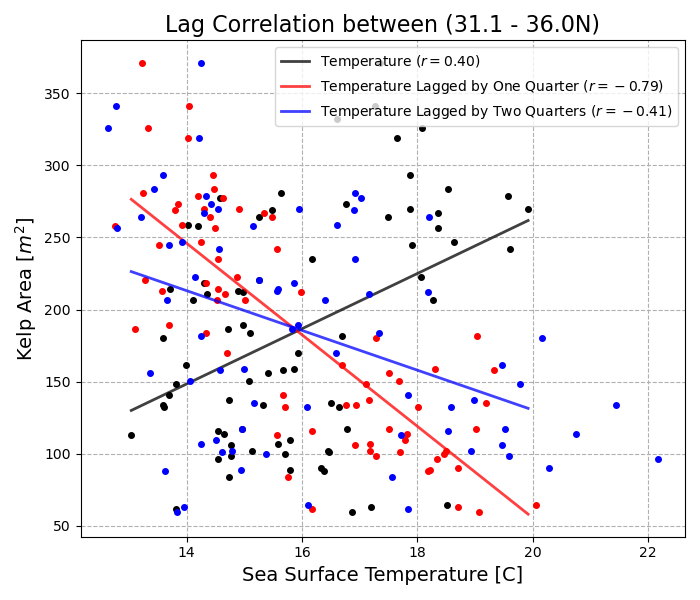
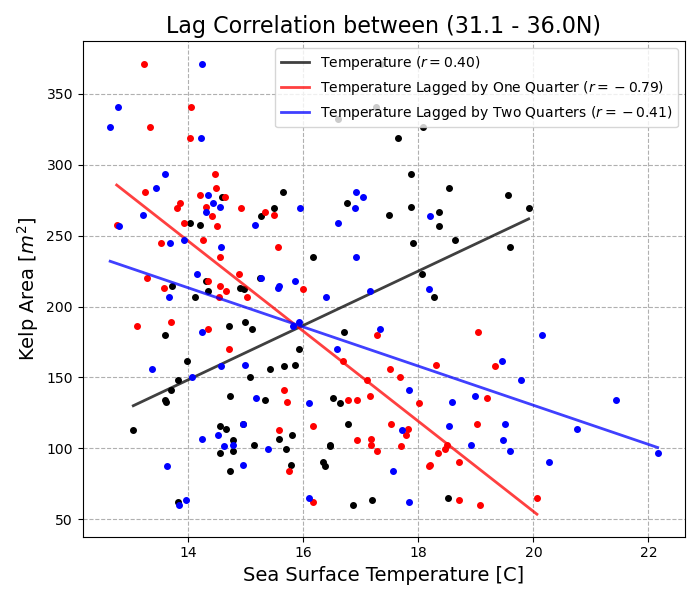
lag correlation for change + docs

diff --git a/plot_lag_correlation.py b/plot_lag_correlation.py
@@ -43,6 +43,8 @@ def lag_correlation(kelp_metrics):
 
     fig, ax = plt.subplots(figsize=(7,6))
     ax.plot(mean_temp-273.15, mean_kelp,  'o', color='black', markersize=4)
+    # plot x-axis errorbar
+    #ax.errorbar(mean_temp-273.15, mean_kelp, xerr=std_temp, color='black', marker='o', ls='none', ecolor='black', alpha=0.5)
     
     # measure trend line
     A = np.vstack([mean_temp-273.15, np.ones(len(mean_temp))]).T
@@ -54,23 +56,34 @@ def lag_correlation(kelp_metrics):
 
     # temp lagged by one quarter
     ax.plot(mean_temp_lag[1:]-273.15, mean_kelp[1:],  'o', color='red', markersize=4)
-    
+    # plot x-axis errorbar
+    #ax.errorbar(mean_temp_lag[1:]-273.15, mean_kelp[1:], xerr=std_temp_lag[1:], color='red', marker='o', ls='none', ecolor='red', alpha=0.5)
+
     # measure trend line
     A = np.vstack([mean_temp_lag[1:]-273.15, np.ones(len(mean_temp_lag[1:]))]).T
     res = OLS(mean_kelp[1:], A).fit()
     m,b = res.params[0], res.params[1]
+    x = np.linspace(np.min(mean_temp_lag[1:]-273.15), np.max(mean_temp_lag[1:]-273.15), 100)
     corrcoeff = np.corrcoef(mean_temp_lag[1:]-273.15, mean_kelp[1:])[0,1]
     ax.plot(x, m*x+b, 'r-',alpha=0.75,lw=2,label=r'Temperature Lagged by One Quarter ($r=%.2f$)'%corrcoeff)
+    # estimate x when y = 0
+    x0 = -b/m
+    print(f"Quarter lagged temperature when kelp area is zero: {x0:.2f}C")
 
     # temp lagged by two quarters
     ax.plot(mean_temp_lag2[2:]-273.15, mean_kelp[2:],  'o', color='blue', markersize=4)
+    # plot x-axis errorbar
+    #ax.errorbar(mean_temp_lag2[2:]-273.15, mean_kelp[2:], xerr=std_temp_lag2[2:], color='blue', marker='o', ls='none', ecolor='blue', alpha=0.5)
     
     # measure trend line
     A = np.vstack([mean_temp_lag2[2:]-273.15, np.ones(len(mean_temp_lag2[2:]))]).T
     res = OLS(mean_kelp[2:], A).fit()
     m,b = res.params[0], res.params[1]
+    x = np.linspace(np.min(mean_temp_lag2[2:]-273.15), np.max(mean_temp_lag2[2:]-273.15), 100)
     corrcoeff = np.corrcoef(mean_temp_lag2[2:]-273.15, mean_kelp[2:])[0,1]
     ax.plot(x, m*x+b, 'b-',alpha=0.75,lw=2,label=r'Temperature Lagged by Two Quarters ($r=%.2f$)'%corrcoeff)
+    x0 = -b/m
+    print(f"Two Quarter lagged temperature when kelp area is zero: {x0:.2f}C")
 
     ax.set_ylabel(r'Kelp Area $[m^2]$', fontsize=14)
     ax.set_xlabel('Sea Surface Temperature [C]', fontsize=14)

diff --git a/plot_lag_correlation_change.py b/plot_lag_correlation_change.py
@@ -23,7 +23,7 @@ def lag_correlation(kelp_metrics):
     # compute mean and std of temperature and kelp area
     for t in unique_times:
         mask = kelp_metrics['dtime'] == t
-        mean_temp.append(np.mean(kelp_metrics['dtemp'][mask]))
+        mean_temp.append(np.mean(kelp_metrics['dtemp_temp'][mask]))
         mean_kelp.append(np.mean(kelp_metrics['dkelp'][mask]))
         std_temp.append(np.std(kelp_metrics['dtemp_temp'][mask]))
         mean_temp_lag.append(np.mean(kelp_metrics['dtemp_temp_lag'][mask]))
@@ -59,16 +59,18 @@ def lag_correlation(kelp_metrics):
     A = np.vstack([mean_temp_lag[1:]-273.15, np.ones(len(mean_temp_lag[1:]))]).T
     res = OLS(mean_kelp[1:], A).fit()
     m,b = res.params[0], res.params[1]
+    x = np.linspace(np.min(mean_temp_lag[1:]-273.15), np.max(mean_temp_lag[1:]-273.15), 100)
     corrcoeff = np.corrcoef(mean_temp_lag[1:]-273.15, mean_kelp[1:])[0,1]
     ax.plot(x, m*x+b, 'r-',alpha=0.75,lw=2,label=r'Temperature Lagged by One Quarter ($r=%.2f$)'%corrcoeff)
 
     # temp lagged by two quarters
     ax.plot(mean_temp_lag2[2:]-273.15, mean_kelp[2:],  'o', color='blue', markersize=4)
-    
+
     # measure trend line
     A = np.vstack([mean_temp_lag2[2:]-273.15, np.ones(len(mean_temp_lag2[2:]))]).T
     res = OLS(mean_kelp[2:], A).fit()
     m,b = res.params[0], res.params[1]
+    x = np.linspace(np.min(mean_temp_lag2[2:]-273.15), np.max(mean_temp_lag2[2:]-273.15), 100)
     corrcoeff = np.corrcoef(mean_temp_lag2[2:]-273.15, mean_kelp[2:])[0,1]
     ax.plot(x, m*x+b, 'b-',alpha=0.75,lw=2,label=r'Temperature Lagged by Two Quarters ($r=%.2f$)'%corrcoeff)
 
@@ -95,5 +97,5 @@ if __name__ == "__main__":
 
     # plot time series
     fig, ax = lag_correlation(data)
-    plt.savefig(args.file_path.replace('.pkl', '_lag_correlation.png'))
+    plt.savefig(args.file_path.replace('.pkl', '_lag_correlation_change.png'))
     plt.show()

diff --git a/kelp_metrics.py b/kelp_metrics.py
@@ -97,7 +97,7 @@ def extract_kelp_metrics(data, bathymetry, lowerBound, upperBound):
         kelp_data['dtemp_temp'].extend((d['kelp_temp'][1:][nonnanmask] + d['kelp_temp'][:-1][nonnanmask])/2)
         kelp_data['dtemp_temp_lag'].extend((d['kelp_temp_lag'][1:][nonnanmask] + d['kelp_temp_lag'][:-1][nonnanmask])/2)
         kelp_data['dtemp_temp_lag2'].extend((d['kelp_temp_lag2'][1:][nonnanmask] + d['kelp_temp_lag2'][:-1][nonnanmask])/2)
-        
+
         kelp_data['dtemp'].extend(nandiff_temp[nonnanmask]) # save temperature difference data
 
         # save time data for differences by averaging time of sequential quartersq

diff --git a/README.md b/README.md
@@ -81,5 +81,6 @@ The scripts above will be able to create figures like this:
 ![](Data/kelp_metrics_31_36_sst_timeseries.png)
 ![](Data/kelp_metrics_31_36_kelp_timeseries.png)
 ![](Data/kelp_metrics_31_36_lag_correlation.png)
+![](Data/kelp_metrics_31_36_lag_correlation_change.png)
 ![](Data/kelp_metrics_31_36_histogram.png)
 ![](Data/kelp_metrics_31_36_regressors.png)

diff --git a/Papers/README.md b/Papers/README.md
@@ -1,1 +1,6 @@
 https://claude.ai/chat/dcbd855f-d735-4374-8bd2-0616b0a50983
+https://claude.ai/chat/6d4c72d4-cbda-4aee-a74b-b16113e79927
+
+
+More references to look into:
+https://portal.edirepository.org/nis/mapbrowse?packageid=knb-lter-sbc.74.21
